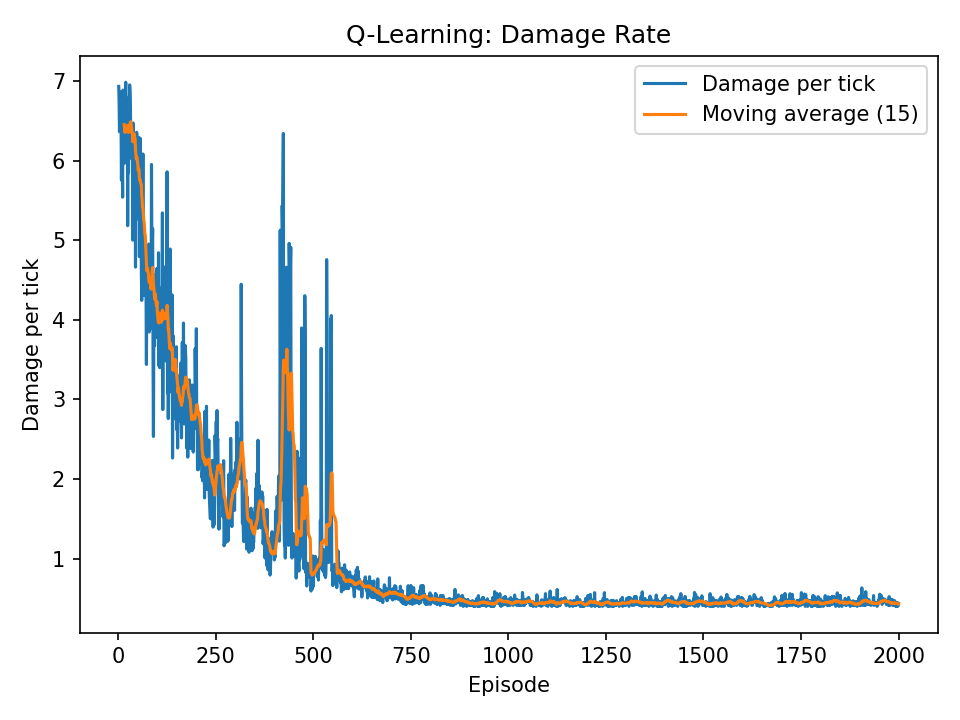
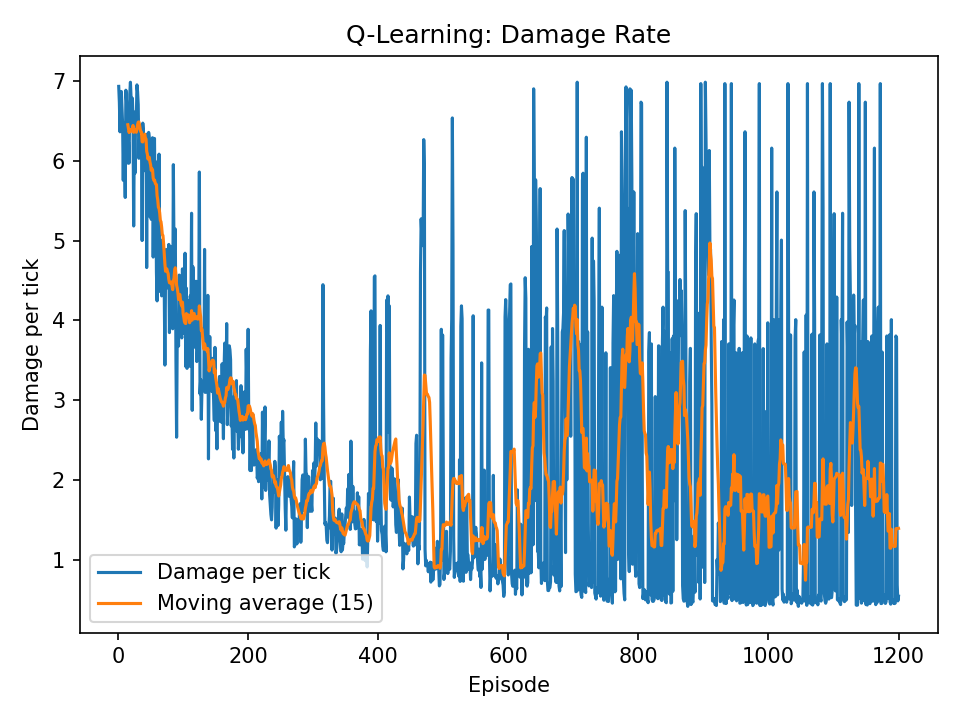
Explored the consequences of temporal awareness.
Findings: Agent managed to circumnavigate the temporal blindness.

diff --git a/q_learning.py b/q_learning.py
@@ -14,23 +14,34 @@ def choose_action(state: int, Q: np.ndarray, epsilon:float, n_actions: int, rng:
     else:
         return int(np.argmax(Q[state]))  # Exploit: best action based on Q-tabler
     
-    
+
+def strip_phase(state: int) -> int:
+    """
+    Remove tick phase from state.
+    Assumes state = tile_index * 5 + phase.
+    """
+    return state // 5
+
 # Main Q-learning training loop
 def train_q_learning(
-    num_episodes: int = 2000,
-    max_steps_per_episode: int = 5000,
-    alpha: float = 0.1, # learning rate
-    gamma: float = 0.99, # discount factor
-    epsilon_start: float = 1.0, # initial exploration rate
-    epsilon_min: float = 0.01, # minimum exploration rate
-    epsilon_decay: float = 0.995, # exploration decay rate
-    seed: int = 0
+    num_episodes: int = 1200,
+    max_steps_per_episode: int = 10000,
+    alpha: float = 0.1,
+    gamma: float = 0.99,
+    epsilon_start: float = 1.0,
+    epsilon_min: float = 0.01,
+    epsilon_decay: float = 0.995,
+    seed: int = 0,
+    use_phase: bool = True,
 ):
+
     env = DukeSurvivalEnv(max_steps=max_steps_per_episode, seed=seed)
     rng = np.random.default_rng(seed)
     
     # Q-table: rows = states, columns = actions
-    Q = np.zeros((env.n_states, env.n_actions), dtype=float)
+    n_states = env.n_states if use_phase else (env.n_states // 5)
+    Q = np.zeros((n_states, env.n_actions), dtype=float)
+
     
     epsilon = epsilon_start
     episode_rewards = []
@@ -47,6 +58,8 @@ def train_q_learning(
     
     for episode in range(num_episodes):
         state = env.reset()
+        if not use_phase:
+            state = strip_phase(state)
         total_reward = 0.0
         survival_ticks = 0
         dmg_magic = 0
@@ -61,6 +74,8 @@ def train_q_learning(
             
             # 2. Take step in environment
             next_state, reward, done, info = env.step(action)
+            if not use_phase:
+                next_state = strip_phase(next_state)
             survival_ticks += 1
 
             # Damage breakdown (matches duke_env.py flags)
@@ -115,12 +130,12 @@ def train_q_learning(
         # FIX USING A STATIC VALUE
         # ASSIGN A VARIABLE TO THE VALUE DESIRED
         # Logging: print progress every 25 episodes
-        if (episode + 1) % 50 == 0:
-            last_50_avg = np.mean(episode_rewards[-50:])
+        if (episode + 1) % 100 == 0:
+            last_100_avg = np.mean(episode_rewards[-100:])
             print(
                 f"Episode {episode + 1:4d} | "
-                f"Avg Reward (50): {last_50_avg:6.2f} | "
-                f"Avg Survival (50): {np.mean(episode_survival_ticks[-50:]):5.1f} | "
+                f"Avg Reward (100): {last_100_avg:6.2f} | "
+                f"Avg Survival (100): {np.mean(episode_survival_ticks[-100:]):5.1f} | "
                 f"Epsilon: {epsilon:5.3f}"
             )
         # Save Q-table at specific episodes
@@ -173,19 +188,24 @@ def plot_metric_curve(
     print(f"Saved plot to: {filename}")
 
 # No learning, just demonstrate the learned policy
-def run_greedy_policy(Q: np.ndarray, max_steps: int = 5000):
+def run_greedy_policy(Q: np.ndarray, max_steps: int = 20000, use_phase: bool = True):
     """
     Run one episode using the greedy policy (no exploration)
     to see how well the agent has learned in the Duke survival env.
     """
     env = DukeSurvivalEnv(max_steps=max_steps, seed=0)
     state = env.reset()
+    if not use_phase:
+        state = strip_phase(state)
 
     total_reward = 0.0
 
     for t in range(max_steps):
         action = int(np.argmax(Q[state]))  # always pick best action
         next_state, reward, done, info = env.step(action)
+        if not use_phase:
+            next_state = strip_phase(next_state)
+
 
         total_reward += reward
         state = next_state
@@ -202,13 +222,35 @@ def run_greedy_policy(Q: np.ndarray, max_steps: int = 5000):
 
         
 if __name__ == "__main__":
+
+    # Choose which experiment to run
+    # "baseline" = ignores phase (state compressed)
+    # "phase"    = uses full state (position + tick_mod_5)
+    RUN_MODE = "baseline"   # <-- change to "baseline" when needed
+
+    if RUN_MODE == "baseline":
+        print("\n=== BASELINE RUN (no phase) ===\n")
+        use_phase = False
+        tag = "baseline"
+        title_prefix = "Baseline (No Phase)"
+
+    elif RUN_MODE == "phase":
+        print("\n=== PHASE-AWARE RUN ===\n")
+        use_phase = True
+        tag = "phase"
+        title_prefix = "Phase-Aware"
+
+    else:
+        raise ValueError('RUN_MODE must be "baseline" or "phase"')
+
     # Train Q-learning agent
-    Q, logs = train_q_learning()
+    Q, logs = train_q_learning(use_phase=use_phase)
 
-    plot_metric_curve(logs["reward"], "Q-Learning: Episode Reward", "Total reward", window=15, filename="reward_curve.png")
-    plot_metric_curve(logs["survival_ticks"], "Q-Learning: Survival Time", "Ticks survived", window=15, filename="survival_curve.png")
-    plot_metric_curve(logs["damage_rate"], "Q-Learning: Damage Rate", "Damage per tick", window=15, filename="damage_rate_curve.png")
+    # Plots (saved with tag so they don't overwrite each other)
+    plot_metric_curve(logs["reward"], f"Q-Learning: Episode Reward ({title_prefix})", "Total reward", window=15, filename=f"reward_curve_{tag}.png")
+    plot_metric_curve(logs["survival_ticks"], f"Q-Learning: Survival Time ({title_prefix})", "Ticks survived", window=15, filename=f"survival_curve_{tag}.png")
+    plot_metric_curve(logs["damage_rate"], f"Q-Learning: Damage Rate ({title_prefix})", "Damage per tick", window=15, filename=f"damage_rate_curve_{tag}.png")
 
-    # Test the learned policy
-    print("\nRunning greedy survival policy after training:\n")
-    run_greedy_policy(Q, max_steps=5000)
+    # Greedy evaluation
+    print(f"\nRunning greedy survival policy ({tag}) after training:\n")
+    run_greedy_policy(Q, max_steps=20000, use_phase=use_phase)
